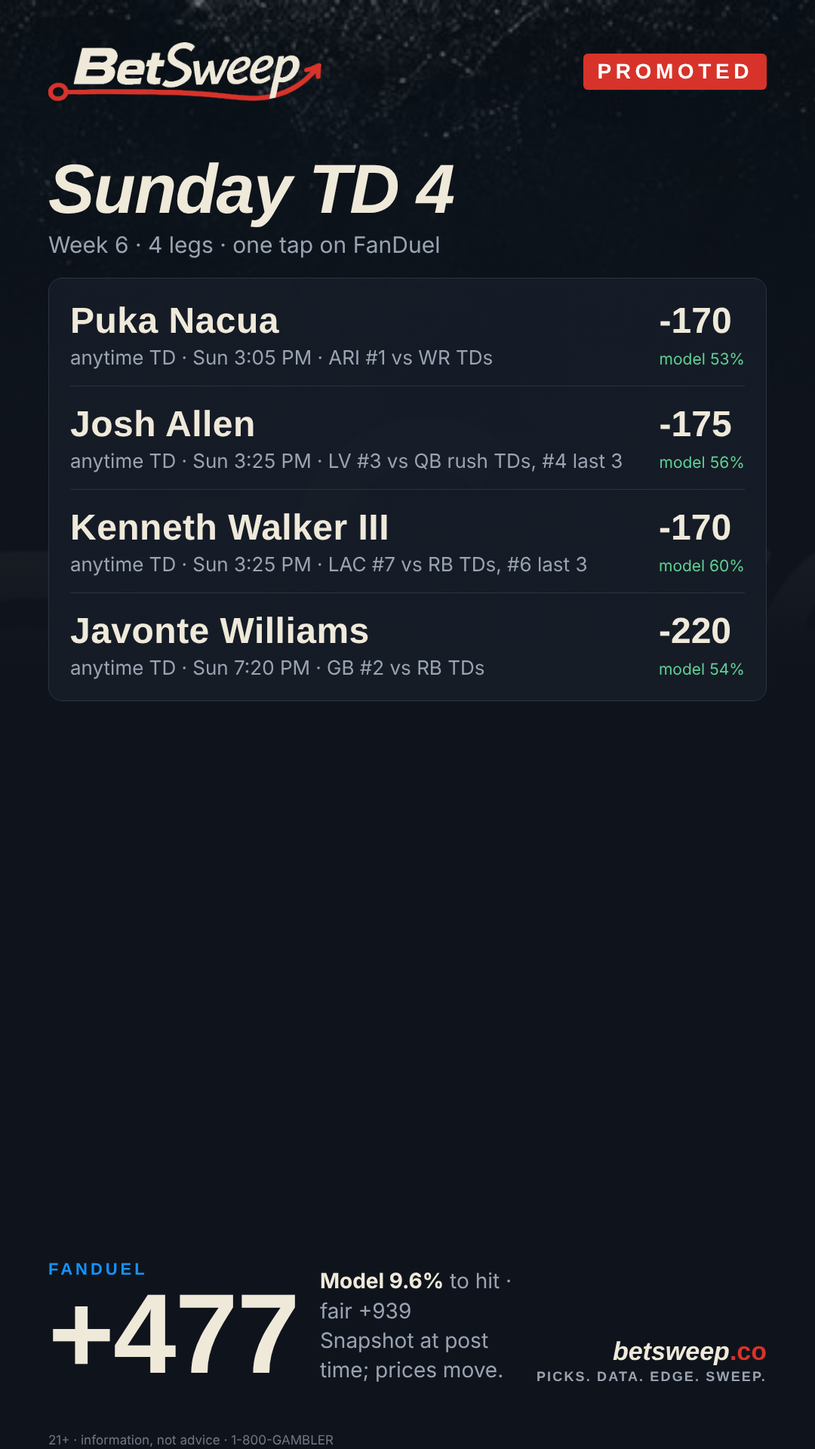
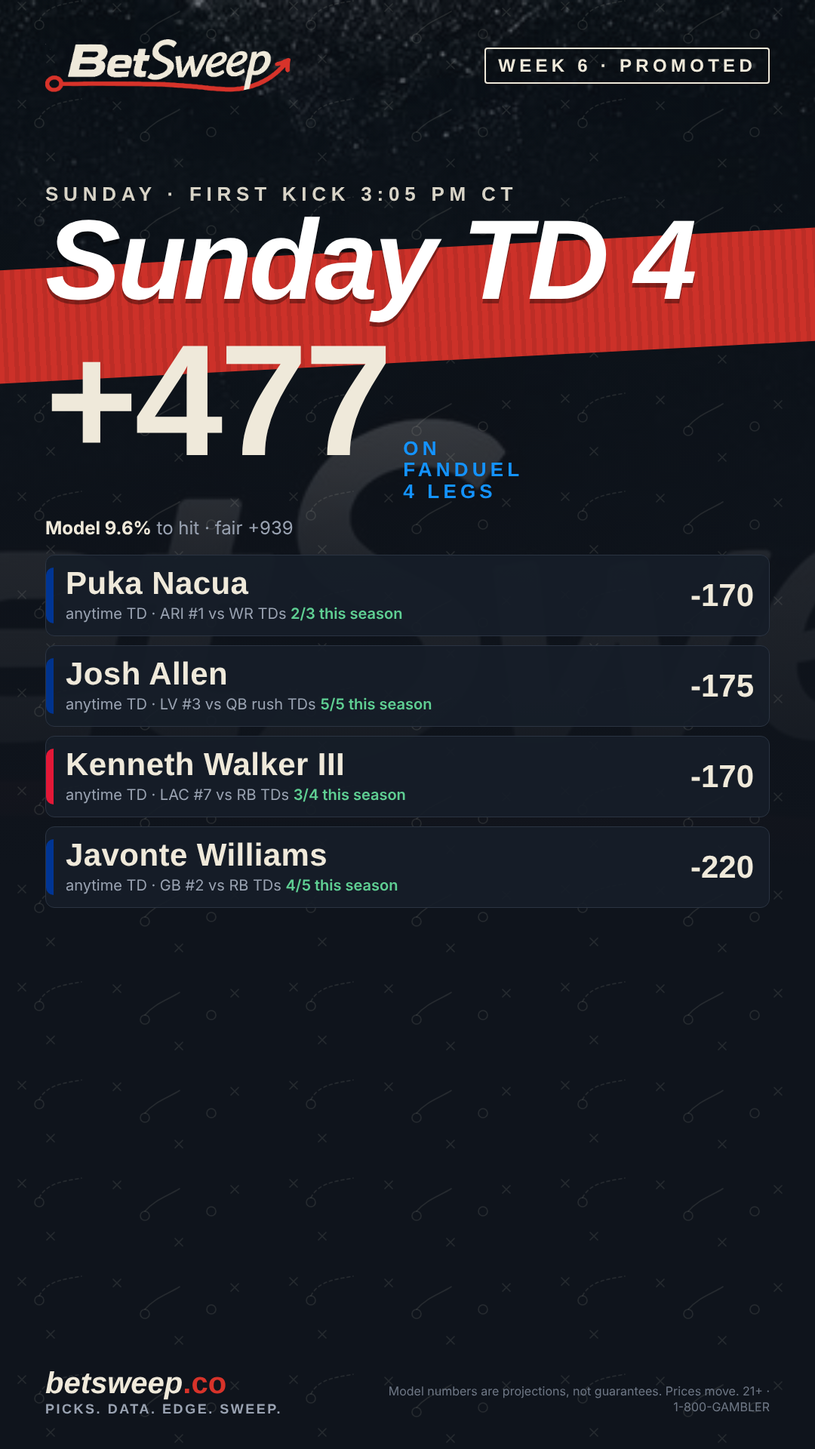
Promoted bets: social posters (4:5 / 1:1 / 9:16) with the real slip in a phone frame; promo-slips/ folder
Claude-Session: https://claude.ai/code/session_01Pqo4PUB5f8JqeHqFrErqwg

diff --git a/index.html b/index.html
@@ -179,12 +179,12 @@ body.compact .card:not(.expanded) > .tick:not([hidden]){display:grid}
 <section class="pitch"><div class="card"><img class="mark" src="/favicon.png" alt="">
  <h1>The model's picks, <span>graded against the sportsbooks</span> every week.</h1>
  <p class="lede">BetSweep projects every NFL skill player, prices every FanDuel prop against those projections, and shows you the receipts afterward. Boards land Thursday morning, refresh through Sunday's inactives, and get graded Tuesday.</p>
- <div class="stats"><span><b>Week 6</b> on the board</span><span><b>14</b> games</span><span><b>3,310</b> FanDuel legs priced</span><span>updated Sat 10/17 12:54 PM CT</span></div>
+ <div class="stats"><span><b>Week 6</b> on the board</span><span><b>14</b> games</span><span><b>3,310</b> FanDuel legs priced</span><span>updated Sat 10/17 1:35 PM CT</span></div>
  <div class="social"><a href="https://x.com/bet_sweep" target="_blank" rel="noopener">X <small>@bet_sweep</small></a><a href="https://www.instagram.com/bet_sweep" target="_blank" rel="noopener">Instagram <small>@bet_sweep</small></a></div>
 </div></section>
-<section class="sec" id="promo"><h2 class="t">Promoted bets</h2><div class="promos"><article class="promo" data-first-ko="1792353900000" data-last-ko="1792369200000"><div class="ph"><small>Promoted</small><span class="st" data-role="pst">Pregame</span></div><h3>Sunday TD 4</h3><div class="meta">Week 6 · 4 legs</div><ul class="pl"><li><b>Puka Nacua</b><span class="o">-170</span><small>anytime TD · Sun 3:05 PM · ARI #1 vs WR TDs</small><span class="mp">model 53%</span></li><li><b>Josh Allen</b><span class="o">-175</span><small>anytime TD · Sun 3:25 PM · LV #3 vs QB rush TDs</small><span class="mp">model 56%</span></li><li><b>Kenneth Walker III</b><span class="o">-170</span><small>anytime TD · Sun 3:25 PM · LAC #7 vs RB TDs</small><span class="mp">model 60%</span></li><li><b>Javonte Williams</b><span class="o">-220</span><small>anytime TD · Sun 7:20 PM · GB #2 vs RB TDs</small><span class="mp">model 54%</span></li></ul><div class="pf"><div class="big"><small>FanDuel</small>+477</div><div class="md"><b>Model 9.6%</b> to hit · fair +939<br>Snapshot at post time; prices move.</div></div><p class="cap">Four players walking into the defenses that give up their touchdown the most: Nacua vs ARI (#1 vs WR TDs), Allen at LV (#3 vs QB rush TDs), Walker vs LAC (#7, #3 last three), Javonte at GB (#4). 15-for-17 scoring this season between them.</p><div class="pa"><a class="fd" href="https://sportsbook.fanduel.com/addToBetslip?marketId[0]=42.616225575&amp;selectionId[0]=42127532&amp;marketId[1]=42.616211797&amp;selectionId[1]=12399650&amp;marketId[2]=42.615921213&amp;selectionId[2]=40845134&amp;marketId[3]=42.615900715&amp;selectionId[3]=37101846" target="_blank" rel="noopener">Bet it on FanDuel</a><a href="https://twitter.com/intent/tweet?text=Sunday%20TD%204%20%C2%B7%20FanDuel%20%2B477%0A%E2%80%A2%20Puka%20Nacua%20anytime%20TD%20%28-170%29%0A%E2%80%A2%20Josh%20Allen%20anytime%20TD%20%28-175%29%0A%E2%80%A2%20Kenneth%20Walker%20III%20anytime%20TD%20%28-170%29%0A%E2%80%A2%20Javonte%20Williams%20anytime%20TD%20%28-220%29%0A%0Abetsweep.co" target="_blank" rel="noopener">Share on X</a><a href="/promo/6-1-square.png" download>Card</a><a href="/promo/6-1-story.png" download>Story</a></div></article><article class="promo" data-first-ko="1792330200000" data-last-ko="1792369200000"><div class="ph"><small>Promoted</small><span class="st" data-role="pst">Pregame</span></div><h3>Sunday Either/Or 11</h3><div class="meta">Week 6 · 11 legs</div><ul class="pl many"><li><b>Bhayshul Tuten or Woody Marks</b><span class="o">-220</span><small>either scores a TD · Sun 8:30 AM</small><span class="mp">model 63%</span></li><li><b>Rhamondre Stevenson or Garrett Wilson</b><span class="o">-310</span><small>either scores a TD · Sun 12:00 PM</small><span class="mp">model 58%</span></li><li><b>Bucky Irving or Jaylen Warren</b><span class="o">-210</span><small>either scores a TD · Sun 12:00 PM</small><span class="mp">model 67%</span></li><li><b>Cam Skattebo or Juwan Johnson</b><span class="o">-185</span><small>either scores a TD · Sun 12:00 PM</small><span class="mp">model 60%</span></li><li><b>Drake London or D&#x27;Andre Swift</b><span class="o">-475</span><small>either scores a TD · Sun 12:00 PM</small><span class="mp">model 71%</span></li><li><b>DeVonta Smith or Chuba Hubbard</b><span class="o">-195</span><small>either scores a TD · Sun 12:00 PM</small><span class="mp">model 67%</span></li><li><b>Harold Fannin Jr. or Derrick Henry</b><span class="o">-270</span><small>either scores a TD · Sun 12:00 PM</small><span class="mp">model 72%</span></li><li><b>Trey McBride or Michael Wilson</b><span class="o">-160</span><small>either scores a TD · Sun 3:05 PM</small><span class="mp">model 68%</span></li><li><b>Ashton Jeanty or James Cook</b><span class="o">-500</span><small>either scores a TD · Sun 3:25 PM</small><span class="mp">model 75%</span></li><li><b>Kenneth Walker III or Omarion Hampton</b><span class="o">-260</span><small>either scores a TD · Sun 3:25 PM</small><span class="mp">model 77%</span></li><li><b>Tucker Kraft or CeeDee Lamb</b><span class="o">-185</span><small>either scores a TD · Sun 7:20 PM</small><span class="mp">model 62%</span></li></ul><div class="pf"><div class="big"><small>FanDuel</small>+4466</div><div class="md"><b>Model 1.2%</b> to hit · fair +7957<br>Snapshot at post time; prices move.</div></div><p class="cap">One either/or touchdown from every Sunday game, each pair picked so one of the two is still the likely scorer whichever way the game goes. Eleven legs, +4466.</p><div class="pa"><a class="fd" href="https://sportsbook.fanduel.com/addToBetslip?shareCode=mR7QhDR" target="_blank" rel="noopener">Bet it on FanDuel</a><a href="https://twitter.com/intent/tweet?text=Sunday%20Either/Or%2011%20%C2%B7%20FanDuel%20%2B4466%0A%E2%80%A2%20Bhayshul%20Tuten%20or%20Woody%20Marks%20either%20scores%20a%20TD%20%28-220%29%0A%E2%80%A2%20Rhamondre%20Stevenson%20or%20Garrett%20Wilson%20either%20scores%20a%20TD%20%28-310%29%0A%E2%80%A2%20Bucky%20Irving%20or%20Jaylen%20Warren%20either%20scores%20a%20TD%20%28-210%29%0A%E2%80%A2%20Cam%20Skattebo%20or%20Juwan%20Johnson%20either%20scores%20a%20TD%20%28-185%29%0A%E2%80%A2%20Drake%20London%20or%20D%27Andre%20Swift%20either%20scores%20a%20TD%20%28-475%29%0A%E2%80%A2%20DeVonta%20Smith%20or%20Chuba%20Hubbard%20either%20scores%20a%20TD%20%28-195%29%0A%E2%80%A2%20Harold%20Fannin%20Jr.%20or%20Derrick%20Henry%20either%20scores%20a%20TD%20%28-270%29%0A%E2%80%A2%20Trey%20McBride%20or%20Michael%20Wilson%20either%20scores%20a%20TD%20%28-160%29%0A%E2%80%A2%20Ashton%20Jeanty%20or%20James%20Cook%20either%20scores%20a%20TD%20%28-500%29%0A%E2%80%A2%20Kenneth%20Walker%20III%20or%20Omarion%20Hampton%20either%20scores%20a%20TD%20%28-260%29%0A%E2%80%A2%20Tucker%20Kraft%20or%20CeeDee%20Lamb%20either%20scores%20a%20TD%20%28-185%29%0A%0Abetsweep.co" target="_blank" rel="noopener">Share on X</a><a href="/promo/6-2-square.png" download>Card</a><a href="/promo/6-2-story.png" download>Story</a></div></article></div><p class="none" style="margin-top:8px;font-size:12.5px">The slips we post on X and Instagram, graded Tuesday like everything else. One tap loads the whole slip on FanDuel.</p></section>
+<section class="sec" id="promo"><h2 class="t">Promoted bets</h2><div class="promos"><article class="promo" data-first-ko="1792353900000" data-last-ko="1792369200000"><div class="ph"><small>Promoted</small><span class="st" data-role="pst">Pregame</span></div><h3>Sunday TD 4</h3><div class="meta">Week 6 · 4 legs</div><ul class="pl"><li><b>Puka Nacua</b><span class="o">-170</span><small>anytime TD · Sun 3:05 PM · ARI #1 vs WR TDs</small><span class="mp">model 53%</span></li><li><b>Josh Allen</b><span class="o">-175</span><small>anytime TD · Sun 3:25 PM · LV #3 vs QB rush TDs</small><span class="mp">model 56%</span></li><li><b>Kenneth Walker III</b><span class="o">-170</span><small>anytime TD · Sun 3:25 PM · LAC #7 vs RB TDs</small><span class="mp">model 60%</span></li><li><b>Javonte Williams</b><span class="o">-220</span><small>anytime TD · Sun 7:20 PM · GB #2 vs RB TDs</small><span class="mp">model 54%</span></li></ul><div class="pf"><div class="big"><small>FanDuel</small>+477</div><div class="md"><b>Model 9.6%</b> to hit · fair +939<br>Snapshot at post time; prices move.</div></div><p class="cap">Four players walking into the defenses that give up their touchdown the most: Nacua vs ARI (#1 vs WR TDs), Allen at LV (#3 vs QB rush TDs), Walker vs LAC (#7, #3 last three), Javonte at GB (#4). 15-for-17 scoring this season between them.</p><div class="pa"><a class="fd" href="https://sportsbook.fanduel.com/addToBetslip?marketId[0]=42.616225575&amp;selectionId[0]=42127532&amp;marketId[1]=42.616211797&amp;selectionId[1]=12399650&amp;marketId[2]=42.615921213&amp;selectionId[2]=40845134&amp;marketId[3]=42.615900715&amp;selectionId[3]=37101846" target="_blank" rel="noopener">Bet it on FanDuel</a><a href="https://twitter.com/intent/tweet?text=Sunday%20TD%204%20%C2%B7%20FanDuel%20%2B477%0A%E2%80%A2%20Puka%20Nacua%20anytime%20TD%20%28-170%29%0A%E2%80%A2%20Josh%20Allen%20anytime%20TD%20%28-175%29%0A%E2%80%A2%20Kenneth%20Walker%20III%20anytime%20TD%20%28-170%29%0A%E2%80%A2%20Javonte%20Williams%20anytime%20TD%20%28-220%29%0A%0Abetsweep.co" target="_blank" rel="noopener">Share on X</a><a href="/promo/6-1-feed.png" download>Post 4:5</a><a href="/promo/6-1-square.png" download>Square</a><a href="/promo/6-1-story.png" download>Story</a></div></article><article class="promo" data-first-ko="1792330200000" data-last-ko="1792369200000"><div class="ph"><small>Promoted</small><span class="st" data-role="pst">Pregame</span></div><h3>Sunday Either/Or 11</h3><div class="meta">Week 6 · 11 legs</div><ul class="pl many"><li><b>Bhayshul Tuten or Woody Marks</b><span class="o">-220</span><small>either scores a TD · Sun 8:30 AM</small><span class="mp">model 63%</span></li><li><b>Rhamondre Stevenson or Garrett Wilson</b><span class="o">-310</span><small>either scores a TD · Sun 12:00 PM</small><span class="mp">model 58%</span></li><li><b>Bucky Irving or Jaylen Warren</b><span class="o">-210</span><small>either scores a TD · Sun 12:00 PM</small><span class="mp">model 67%</span></li><li><b>Cam Skattebo or Juwan Johnson</b><span class="o">-185</span><small>either scores a TD · Sun 12:00 PM</small><span class="mp">model 60%</span></li><li><b>Drake London or D&#x27;Andre Swift</b><span class="o">-475</span><small>either scores a TD · Sun 12:00 PM</small><span class="mp">model 71%</span></li><li><b>DeVonta Smith or Chuba Hubbard</b><span class="o">-195</span><small>either scores a TD · Sun 12:00 PM</small><span class="mp">model 67%</span></li><li><b>Harold Fannin Jr. or Derrick Henry</b><span class="o">-270</span><small>either scores a TD · Sun 12:00 PM</small><span class="mp">model 72%</span></li><li><b>Trey McBride or Michael Wilson</b><span class="o">-160</span><small>either scores a TD · Sun 3:05 PM</small><span class="mp">model 68%</span></li><li><b>Ashton Jeanty or James Cook</b><span class="o">-500</span><small>either scores a TD · Sun 3:25 PM</small><span class="mp">model 75%</span></li><li><b>Kenneth Walker III or Omarion Hampton</b><span class="o">-260</span><small>either scores a TD · Sun 3:25 PM</small><span class="mp">model 77%</span></li><li><b>Tucker Kraft or CeeDee Lamb</b><span class="o">-185</span><small>either scores a TD · Sun 7:20 PM</small><span class="mp">model 62%</span></li></ul><div class="pf"><div class="big"><small>FanDuel</small>+4466</div><div class="md"><b>Model 1.2%</b> to hit · fair +7957<br>Snapshot at post time; prices move.</div></div><p class="cap">One either/or touchdown from every Sunday game, each pair picked so one of the two is still the likely scorer whichever way the game goes. Eleven legs, +4466.</p><div class="pa"><a class="fd" href="https://sportsbook.fanduel.com/addToBetslip?shareCode=mR7QhDR" target="_blank" rel="noopener">Bet it on FanDuel</a><a href="https://twitter.com/intent/tweet?text=Sunday%20Either/Or%2011%20%C2%B7%20FanDuel%20%2B4466%0A%E2%80%A2%20Bhayshul%20Tuten%20or%20Woody%20Marks%20either%20scores%20a%20TD%20%28-220%29%0A%E2%80%A2%20Rhamondre%20Stevenson%20or%20Garrett%20Wilson%20either%20scores%20a%20TD%20%28-310%29%0A%E2%80%A2%20Bucky%20Irving%20or%20Jaylen%20Warren%20either%20scores%20a%20TD%20%28-210%29%0A%E2%80%A2%20Cam%20Skattebo%20or%20Juwan%20Johnson%20either%20scores%20a%20TD%20%28-185%29%0A%E2%80%A2%20Drake%20London%20or%20D%27Andre%20Swift%20either%20scores%20a%20TD%20%28-475%29%0A%E2%80%A2%20DeVonta%20Smith%20or%20Chuba%20Hubbard%20either%20scores%20a%20TD%20%28-195%29%0A%E2%80%A2%20Harold%20Fannin%20Jr.%20or%20Derrick%20Henry%20either%20scores%20a%20TD%20%28-270%29%0A%E2%80%A2%20Trey%20McBride%20or%20Michael%20Wilson%20either%20scores%20a%20TD%20%28-160%29%0A%E2%80%A2%20Ashton%20Jeanty%20or%20James%20Cook%20either%20scores%20a%20TD%20%28-500%29%0A%E2%80%A2%20Kenneth%20Walker%20III%20or%20Omarion%20Hampton%20either%20scores%20a%20TD%20%28-260%29%0A%E2%80%A2%20Tucker%20Kraft%20or%20CeeDee%20Lamb%20either%20scores%20a%20TD%20%28-185%29%0A%0Abetsweep.co" target="_blank" rel="noopener">Share on X</a><a href="/promo/6-2-feed.png" download>Post 4:5</a><a href="/promo/6-2-square.png" download>Square</a><a href="/promo/6-2-story.png" download>Story</a></div></article></div><p class="none" style="margin-top:8px;font-size:12.5px">The slips we post on X and Instagram, graded Tuesday like everything else. One tap loads the whole slip on FanDuel.</p></section>
 <section class="sec" id="plays"><h2 class="t">The model's top plays this week</h2><div class="plays"><article class="play lead" data-gid="HOU-JAX" data-ko="1792330200000"><div class="who"><b>Chris Rodriguez Jr.</b><small>RB · JAX vs HOU · Sun 8:30 AM</small></div><div class="what">16+ rushing yards<span class="odds">-114</span></div><div class="nums"><span><i>Model</i>66%</span><span><i>Price needs</i>53%</span><span class="edge pos"><i>Edge</i>+12</span></div><div class="foot"><span class="hist info">3/5 this season</span><a class="more" href="/build/#g-HOU-JAX">Builder →</a><a class="fdb" href="https://sportsbook.fanduel.com/addToBetslip?marketId=42.615817716&amp;selectionId=41073257" target="_blank" rel="noopener">Add to FanDuel</a></div></article><article class="play " data-gid="ARI-LA" data-ko="1792353900000"><div class="who"><b>Kyren Williams</b><small>RB · LA vs ARI · Sun 3:05 PM</small></div><div class="what">10+ longest reception<span class="odds">-170</span></div><div class="nums"><span><i>Model</i>74%</span><span><i>Price needs</i>63%</span><span class="edge pos"><i>Edge</i>+11</span></div><div class="foot"><span class="hist good">4/5 this season</span><a class="more" href="/build/#g-ARI-LA">Builder →</a><a class="fdb" href="https://sportsbook.fanduel.com/addToBetslip?marketId=42.616234655&amp;selectionId=37101838" target="_blank" rel="noopener">Add to FanDuel</a></div></article><article class="play " data-gid="PIT-TB" data-ko="1792342800000"><div class="who"><b>Bucky Irving</b><small>RB · TB vs PIT · Sun 12:00 PM</small></div><div class="what">2+ receptions<span class="odds">-172</span></div><div class="nums"><span><i>Model</i>74%</span><span><i>Price needs</i>63%</span><span class="edge pos"><i>Edge</i>+11</span></div><div class="foot"><span class="hist good">4/5 this season</span><a class="more" href="/build/#g-PIT-TB">Builder →</a><a class="fdb" href="https://sportsbook.fanduel.com/addToBetslip?marketId=42.616465976&amp;selectionId=49541847" target="_blank" rel="noopener">Add to FanDuel</a></div></article><article class="play " data-gid="BUF-LV" data-ko="1792355100000"><div class="who"><b>Mike Washington Jr.</b><small>RB · LV vs BUF · Sun 3:25 PM</small></div><div class="what">15+ rushing yards<span class="odds">-114</span></div><div class="nums"><span><i>Model</i>63%</span><span><i>Price needs</i>53%</span><span class="edge pos"><i>Edge</i>+10</span></div><div class="foot"><span class="hist info">3/5 this season</span><a class="more" href="/build/#g-BUF-LV">Builder →</a><a class="fdb" href="https://sportsbook.fanduel.com/addToBetslip?marketId=42.616214153&amp;selectionId=102723544" target="_blank" rel="noopener">Add to FanDuel</a></div></article><article class="play " data-gid="HOU-JAX" data-ko="1792330200000"><div class="who"><b>Dalton Schultz</b><small>TE · HOU vs JAX · Sun 8:30 AM</small></div><div class="what">3+ receptions<span class="odds">-260</span></div><div class="nums"><span><i>Model</i>81%</span><span><i>Price needs</i>72%</span><span class="edge pos"><i>Edge</i>+9</span></div><div class="foot"><span class="hist good">4/5 this season</span><a class="more" href="/build/#g-HOU-JAX">Builder →</a><a class="fdb" href="https://sportsbook.fanduel.com/addToBetslip?marketId=42.615828437&amp;selectionId=61437979" target="_blank" rel="noopener">Add to FanDuel</a></div></article><article class="play " data-gid="BAL-CLE" data-ko="1792342800000"><div class="who"><b>Zay Flowers</b><small>WR · BAL vs CLE · Sun 12:00 PM</small></div><div class="what">20+ longest reception<span class="odds">-160</span></div><div class="nums"><span><i>Model</i>69%</span><span><i>Price needs</i>62%</span><span class="edge pos"><i>Edge</i>+7</span></div><div class="foot"><span class="hist info">3/4 this season</span><a class="more" href="/build/#g-BAL-CLE">Builder →</a><a class="fdb" href="https://sportsbook.fanduel.com/addToBetslip?marketId=42.616397629&amp;selectionId=38093936" target="_blank" rel="noopener">Add to FanDuel</a></div></article><article class="play " data-gid="ARI-LA" data-ko="1792353900000"><div class="who"><b>Jacoby Brissett</b><small>QB · ARI vs LA · Sun 3:05 PM</small></div><div class="what">7+ rushing yards<span class="odds">-114</span></div><div class="nums"><span><i>Model</i>60%</span><span><i>Price needs</i>53%</span><span class="edge pos"><i>Edge</i>+7</span></div><div class="foot"><span class="hist good">4/5 this season</span><a class="more" href="/build/#g-ARI-LA">Builder →</a><a class="fdb" href="https://sportsbook.fanduel.com/addToBetslip?marketId=42.616836067&amp;selectionId=14942497" target="_blank" rel="noopener">Add to FanDuel</a></div></article><article class="play " data-gid="ATL-CHI" data-ko="1792342800000"><div class="who"><b>Kalif Raymond</b><small>WR · CHI vs ATL · Sun 12:00 PM</small></div><div class="what">15+ longest reception<span class="odds">-120</span></div><div class="nums"><span><i>Model</i>61%</span><span><i>Price needs</i>55%</span><span class="edge pos"><i>Edge</i>+7</span></div><div class="foot"><span class="hist info">3/5 this season</span><a class="more" href="/build/#g-ATL-CHI">Builder →</a><a class="fdb" href="https://sportsbook.fanduel.com/addToBetslip?marketId=42.616092697&amp;selectionId=14783655" target="_blank" rel="noopener">Add to FanDuel</a></div></article></div><p class="none allstarted" hidden>Every top play has kicked off. The <a href="/live/" style="color:var(--ink)">Live page</a> tracks what is still open; the next slate's plays land after the next rebuild.</p><p class="none" style="margin-top:10px;font-size:12.5px">From the sheet's Best Legs: strong-value lines with no warnings, best line per player. Model % is the projected hit rate; "price needs" is what FanDuel's odds imply; edge is the gap in points.</p></section>
-<section class="sec"><h2 class="t">Also on the radar</h2><div class="subt">Anytime touchdown</div><div class="plays"><article class="play " data-gid="KC-LAC" data-ko="1792355100000"><div class="who"><b>Omarion Hampton</b><small>RB · LAC vs KC · Sun 3:25 PM</small></div><div class="what">Anytime TD<span class="odds">+280</span></div><div class="nums"><span><i>Model</i>39%</span><span><i>Price needs</i>26%</span><span class="edge pos"><i>Edge</i>+13</span></div><div class="foot"><span class="hist info">3/5 this season</span><a class="more" href="/build/#g-KC-LAC">Builder →</a><a class="fdb" href="https://sportsbook.fanduel.com/addToBetslip?marketId=42.615921213&amp;selectionId=48700658" target="_blank" rel="noopener">Add to FanDuel</a></div></article><article class="play " data-gid="PIT-TB" data-ko="1792342800000"><div class="who"><b>Rico Dowdle</b><small>RB · PIT vs TB · Sun 12:00 PM</small></div><div class="what">Anytime TD<span class="odds">+350</span></div><div class="nums"><span><i>Model</i>30%</span><span><i>Price needs</i>22%</span><span class="edge pos"><i>Edge</i>+8</span></div><div class="foot"><a class="more" href="/build/#g-PIT-TB">Builder →</a><a class="fdb" href="https://sportsbook.fanduel.com/addToBetslip?marketId=42.616419379&amp;selectionId=35949997" target="_blank" rel="noopener">Add to FanDuel</a></div></article><article class="play " data-gid="ARI-LA" data-ko="1792353900000"><div class="who"><b>Trey McBride</b><small>TE · ARI vs LA · Sun 3:05 PM</small></div><div class="what">Anytime TD<span class="odds">+145</span></div><div class="nums"><span><i>Model</i>47%</span><span><i>Price needs</i>41%</span><span class="edge pos"><i>Edge</i>+6</span></div><div class="foot"><span class="hist info">3/5 this season</span><a class="more" href="/build/#g-ARI-LA">Builder →</a><a class="fdb" href="https://sportsbook.fanduel.com/addToBetslip?marketId=42.616225575&amp;selectionId=43845465" target="_blank" rel="noopener">Add to FanDuel</a></div></article><article class="play " data-gid="CAR-PHI" data-ko="1792342800000"><div class="who"><b>Carson Steele</b><small>RB · PHI vs CAR · Sun 12:00 PM</small></div><div class="what">Anytime TD<span class="odds">+410</span></div><div class="nums"><span><i>Model</i>25%</span><span><i>Price needs</i>20%</span><span class="edge pos"><i>Edge</i>+6</span></div><div class="foot"><a class="more" href="/build/#g-CAR-PHI">Builder →</a><a class="fdb" href="https://sportsbook.fanduel.com/addToBetslip?marketId=42.616394506&amp;selectionId=49913957" target="_blank" rel="noopener">Add to FanDuel</a></div></article></div><p class="none allstarted" hidden>All kicked off.</p><div class="subt">Game lines the model disagrees with</div><div class="plays"><article class="play gl" data-gid="CAR-PHI" data-ko="1792342800000"><div class="who"><b>Over 38.5</b><small>CAR @ PHI · Sun 12:00 PM</small></div><div class="what">Total<span class="odds">-115</span></div><div class="nums"><span><i>Model</i>65%</span><span><i>Price needs</i>53%</span><span class="edge pos"><i>Edge</i>+12</span></div><div class="foot"><a class="more" href="/boards/#g-CAR-PHI">Board →</a></div></article><article class="play gl" data-gid="ARI-LA" data-ko="1792353900000"><div class="who"><b>Cardinals ML</b><small>ARI @ LA · Sun 3:05 PM</small></div><div class="what">ML<span class="odds">+560</span></div><div class="nums"><span><i>Model</i>26%</span><span><i>Price needs</i>15%</span><span class="edge pos"><i>Edge</i>+11</span></div><div class="foot"><a class="more" href="/boards/#g-ARI-LA">Board →</a></div></article><article class="play gl" data-gid="BAL-CLE" data-ko="1792342800000"><div class="who"><b>Over 39.5</b><small>BAL @ CLE · Sun 12:00 PM</small></div><div class="what">Total<span class="odds">-105</span></div><div class="nums"><span><i>Model</i>61%</span><span><i>Price needs</i>51%</span><span class="edge pos"><i>Edge</i>+10</span></div><div class="foot"><a class="more" href="/boards/#g-BAL-CLE">Board →</a></div></article></div><p class="none allstarted" hidden>All kicked off.</p></section>
+<section class="sec"><h2 class="t">Also on the radar</h2><div class="subt">Anytime touchdown</div><div class="plays"><article class="play " data-gid="KC-LAC" data-ko="1792355100000"><div class="who"><b>Omarion Hampton</b><small>RB · LAC vs KC · Sun 3:25 PM</small></div><div class="what">Anytime TD<span class="odds">+280</span></div><div class="nums"><span><i>Model</i>39%</span><span><i>Price needs</i>26%</span><span class="edge pos"><i>Edge</i>+13</span></div><div class="foot"><span class="hist info">3/5 this season</span><a class="more" href="/build/#g-KC-LAC">Builder →</a><a class="fdb" href="https://sportsbook.fanduel.com/addToBetslip?marketId=42.615921213&amp;selectionId=48700658" target="_blank" rel="noopener">Add to FanDuel</a></div></article><article class="play " data-gid="PIT-TB" data-ko="1792342800000"><div class="who"><b>Rico Dowdle</b><small>RB · PIT vs TB · Sun 12:00 PM</small></div><div class="what">Anytime TD<span class="odds">+320</span></div><div class="nums"><span><i>Model</i>30%</span><span><i>Price needs</i>24%</span><span class="edge pos"><i>Edge</i>+6</span></div><div class="foot"><a class="more" href="/build/#g-PIT-TB">Builder →</a><a class="fdb" href="https://sportsbook.fanduel.com/addToBetslip?marketId=42.616419379&amp;selectionId=35949997" target="_blank" rel="noopener">Add to FanDuel</a></div></article><article class="play " data-gid="ARI-LA" data-ko="1792353900000"><div class="who"><b>Trey McBride</b><small>TE · ARI vs LA · Sun 3:05 PM</small></div><div class="what">Anytime TD<span class="odds">+145</span></div><div class="nums"><span><i>Model</i>47%</span><span><i>Price needs</i>41%</span><span class="edge pos"><i>Edge</i>+6</span></div><div class="foot"><span class="hist info">3/5 this season</span><a class="more" href="/build/#g-ARI-LA">Builder →</a><a class="fdb" href="https://sportsbook.fanduel.com/addToBetslip?marketId=42.616225575&amp;selectionId=43845465" target="_blank" rel="noopener">Add to FanDuel</a></div></article><article class="play " data-gid="CAR-PHI" data-ko="1792342800000"><div class="who"><b>Carson Steele</b><small>RB · PHI vs CAR · Sun 12:00 PM</small></div><div class="what">Anytime TD<span class="odds">+410</span></div><div class="nums"><span><i>Model</i>25%</span><span><i>Price needs</i>20%</span><span class="edge pos"><i>Edge</i>+6</span></div><div class="foot"><a class="more" href="/build/#g-CAR-PHI">Builder →</a><a class="fdb" href="https://sportsbook.fanduel.com/addToBetslip?marketId=42.616394506&amp;selectionId=49913957" target="_blank" rel="noopener">Add to FanDuel</a></div></article></div><p class="none allstarted" hidden>All kicked off.</p><div class="subt">Game lines the model disagrees with</div><div class="plays"><article class="play gl" data-gid="CAR-PHI" data-ko="1792342800000"><div class="who"><b>Over 38.5</b><small>CAR @ PHI · Sun 12:00 PM</small></div><div class="what">Total<span class="odds">-115</span></div><div class="nums"><span><i>Model</i>65%</span><span><i>Price needs</i>53%</span><span class="edge pos"><i>Edge</i>+12</span></div><div class="foot"><a class="more" href="/boards/#g-CAR-PHI">Board →</a></div></article><article class="play gl" data-gid="ARI-LA" data-ko="1792353900000"><div class="who"><b>Cardinals ML</b><small>ARI @ LA · Sun 3:05 PM</small></div><div class="what">ML<span class="odds">+560</span></div><div class="nums"><span><i>Model</i>26%</span><span><i>Price needs</i>15%</span><span class="edge pos"><i>Edge</i>+11</span></div><div class="foot"><a class="more" href="/boards/#g-ARI-LA">Board →</a></div></article><article class="play gl" data-gid="BAL-CLE" data-ko="1792342800000"><div class="who"><b>Over 39.5</b><small>BAL @ CLE · Sun 12:00 PM</small></div><div class="what">Total<span class="odds">-105</span></div><div class="nums"><span><i>Model</i>61%</span><span><i>Price needs</i>51%</span><span class="edge pos"><i>Edge</i>+10</span></div><div class="foot"><a class="more" href="/boards/#g-BAL-CLE">Board →</a></div></article></div><p class="none allstarted" hidden>All kicked off.</p></section>
 <section class="sec" id="parlay"><h2 class="t">Best parlay</h2><div class="ptwo"><div class="parlay" data-gid="BAL-CLE" data-ko="1792342800000"><div class="phd"><small>Best same-game parlay</small><h3>BAL @ CLE <span>Sun 12:00 PM</span></h3><p>Built for the game's most likely script (BAL by 10+); the model gives the full slip <b>67%</b> against a FanDuel-equivalent price of <b>+122</b> (EV +49%).</p></div><ul class="plegs"><li><b>Zay Flowers</b><span>40+ receiving yards <small>-290</small></span><em>88%</em></li><li><b>Justice Hill</b><span>10+ rushing yards <small>-154</small></span><em>76%</em></li></ul><div class="pfoot"><a class="more" href="/boards/#g-BAL-CLE">Open the board →</a><a class="more" href="/build/#g-BAL-CLE">Edit in the builder →</a></div></div><div class="pothers"><a class="pmini" href="/boards/#g-KC-LAC" data-gid="KC-LAC" data-ko="1792355100000"><b>KC @ LAC</b><span>2 legs · +111</span><em>model 70% · EV +48%</em></a><a class="pmini" href="/boards/#g-ATL-CHI" data-gid="ATL-CHI" data-ko="1792342800000"><b>ATL @ CHI</b><span>2 legs · +142</span><em>model 58% · EV +39%</em></a><a class="pmini" href="/boards/#g-HOU-JAX" data-gid="HOU-JAX" data-ko="1792330200000"><b>HOU @ JAX</b><span>2 legs · -104</span><em>model 60% · EV +18%</em></a><a class="pmini" href="/boards/#g-SF-WAS" data-gid="SF-WAS" data-ko="1792455300000"><b>SF @ WAS</b><span>2 legs · +262</span><em>model 31% · EV +12%</em></a></div></div></section>
 <section class="sec" id="slate"><h2 class="t">Week 6 slate</h2><div class="slate"><a class="game" href="/boards/#g-DEN-SEA" data-gid="DEN-SEA" data-ko="1792109700000" data-fin="DEN 17 – SEA 14"><span class="gk">Thu 7:15 PM</span><span class="gm"><b>DEN</b> @ <b>SEA</b></span><span class="gp">SEA by 5.2 · O/U 45.1</span><span class="gs">SEA by 10+</span><span class="gl"></span></a><a class="game" href="/boards/#g-HOU-JAX" data-gid="HOU-JAX" data-ko="1792330200000" data-fin=""><span class="gk">Sun 8:30 AM</span><span class="gm"><b>HOU</b> @ <b>JAX</b></span><span class="gp">JAX by 4.6 · O/U 43.0</span><span class="gs">JAX by 10+</span><span class="gl"></span></a><a class="game" href="/boards/#g-ATL-CHI" data-gid="ATL-CHI" data-ko="1792342800000" data-fin=""><span class="gk">Sun 12:00 PM</span><span class="gm"><b>ATL</b> @ <b>CHI</b></span><span class="gp">CHI by 1.8 · O/U 46.2</span><span class="gs">Close, low scoring</span><span class="gl"></span></a><a class="game" href="/boards/#g-BAL-CLE" data-gid="BAL-CLE" data-ko="1792342800000" data-fin=""><span class="gk">Sun 12:00 PM</span><span class="gm"><b>BAL</b> @ <b>CLE</b></span><span class="gp">BAL by 6.4 · O/U 47.2</span><span class="gs">BAL by 10+</span><span class="gl"></span></a><a class="game" href="/boards/#g-CAR-PHI" data-gid="CAR-PHI" data-ko="1792342800000" data-fin=""><span class="gk">Sun 12:00 PM</span><span class="gm"><b>CAR</b> @ <b>PHI</b></span><span class="gp">CAR by 6.0 · O/U 49.0</span><span class="gs">CAR by 10+</span><span class="gl"></span></a><a class="game" href="/boards/#g-IND-TEN" data-gid="IND-TEN" data-ko="1792342800000" data-fin=""><span class="gk">Sun 12:00 PM</span><span class="gm"><b>IND</b> @ <b>TEN</b></span><span class="gp">IND by 6.6 · O/U 41.0</span><span class="gs">IND by 10+</span><span class="gl"></span></a><a class="game" href="/boards/#g-NE-NYJ" data-gid="NE-NYJ" data-ko="1792342800000" data-fin=""><span class="gk">Sun 12:00 PM</span><span class="gm"><b>NE</b> @ <b>NYJ</b></span><span class="gp">NE by 2.3 · O/U 39.7</span><span class="gs">Close, low scoring</span><span class="gl"></span></a><a class="game" href="/boards/#g-NO-NYG" data-gid="NO-NYG" data-ko="1792342800000" data-fin=""><span class="gk">Sun 12:00 PM</span><span class="gm"><b>NO</b> @ <b>NYG</b></span><span class="gp">NYG by 2.0 · O/U 47.5</span><span class="gs">Close, low scoring</span><span class="gl"></span></a><a class="game" href="/boards/#g-PIT-TB" data-gid="PIT-TB" data-ko="1792342800000" data-fin=""><span class="gk">Sun 12:00 PM</span><span class="gm"><b>PIT</b> @ <b>TB</b></span><span class="gp">PIT by 1.6 · O/U 42.9</span><span class="gs">Close, low scoring</span><span class="gl"></span></a><a class="game" href="/boards/#g-ARI-LA" data-gid="ARI-LA" data-ko="1792353900000" data-fin=""><span class="gk">Sun 3:05 PM</span><span class="gm"><b>ARI</b> @ <b>LA</b></span><span class="gp">LA by 4.4 · O/U 49.2</span><span class="gs">LA by 10+</span><span class="gl"></span></a><a class="game" href="/boards/#g-BUF-LV" data-gid="BUF-LV" data-ko="1792355100000" data-fin=""><span class="gk">Sun 3:25 PM</span><span class="gm"><b>BUF</b> @ <b>LV</b></span><span class="gp">BUF by 3.3 · O/U 57.4</span><span class="gs">Shootout</span><span class="gl"></span></a><a class="game" href="/boards/#g-KC-LAC" data-gid="KC-LAC" data-ko="1792355100000" data-fin=""><span class="gk">Sun 3:25 PM</span><span class="gm"><b>KC</b> @ <b>LAC</b></span><span class="gp">KC by 10.6 · O/U 45.9</span><span class="gs">KC by 10+</span><span class="gl"></span></a><a class="game" href="/boards/#g-DAL-GB" data-gid="DAL-GB" data-ko="1792369200000" data-fin=""><span class="gk">Sun 7:20 PM</span><span class="gm"><b>DAL</b> @ <b>GB</b></span><span class="gp">DAL by 2.7 · O/U 48.8</span><span class="gs">DAL by 10+</span><span class="gl"></span></a><a class="game" href="/boards/#g-SF-WAS" data-gid="SF-WAS" data-ko="1792455300000" data-fin=""><span class="gk">Mon 7:15 PM</span><span class="gm"><b>SF</b> @ <b>WAS</b></span><span class="gp">SF by 9.0 · O/U 51.9</span><span class="gs">SF by 10+</span><span class="gl"></span></a></div><p class="none" style="margin-top:8px;font-size:12.5px">Model line and total, most likely game script. Tap a game for its board. Scores update live on game day.</p></section>
 <section class="sec" id="record"><h2 class="t">Track record</h2><div class="rec"><div><b>5.8</b><span>PPR points off per player, frozen before kickoff (224 player-games)</span></div><div><b>Tue</b><span>FanDuel legs are frozen before kickoff and graded Tuesday - the first graded record lands then</span></div><div><b>4</b><span>weeks graded · <a href="/receipts/week5/">Week 5 receipt</a> · <a href="/season/">season</a></span></div></div></section>

diff --git a/sw.js b/sw.js
@@ -1,6 +1,6 @@
 // BetSweep service worker: app shell cached for instant open; pages are network-first so the data is always this build's,
-// with the last good copy served when the connection drops (stadium wifi). Version: 202610171254
-var V = 'bs-202610171254', SHELL = ['/', '/boards/', '/build/', '/live/', '/team/', '/firsttd/', '/dfs/', '/receipts/', '/season/', '/offline.html', '/wordmark.png', '/wordmark-ink.png', '/favicon.png', '/app/icon-192.png'];
+// with the last good copy served when the connection drops (stadium wifi). Version: 202610171335
+var V = 'bs-202610171335', SHELL = ['/', '/boards/', '/build/', '/live/', '/team/', '/firsttd/', '/dfs/', '/receipts/', '/season/', '/offline.html', '/wordmark.png', '/wordmark-ink.png', '/favicon.png', '/app/icon-192.png'];
 self.addEventListener('install', function(e){ e.waitUntil(caches.open(V).then(function(c){ return Promise.all(SHELL.map(function(u){ return c.add(u).catch(function(){}); })); }).then(function(){ return self.skipWaiting(); })); });
 self.addEventListener('activate', function(e){ e.waitUntil(caches.keys().then(function(ks){ return Promise.all(ks.filter(function(k){ return k !== V; }).map(function(k){ return caches.delete(k); })); }).then(function(){ return self.clients.claim(); })); });
 self.addEventListener('fetch', function(e){

diff --git a/promo-slips/README.md b/promo-slips/README.md
@@ -1,0 +1,5 @@
+# promo-slips
+
+Screenshots of the FanDuel slips behind the promoted bets, named `<week>-<slot>.png` or `.jpg` to match the row on the
+'PROMO - Promoted Bets' tab (e.g. `6-1.jpg` = Week 6, slot 1). The weekly rebuild drops the matching screenshot into the
+phone frame on the social posters (betsweep.co/promo/). No screenshot = a BetSweep-styled slip is drawn instead.
